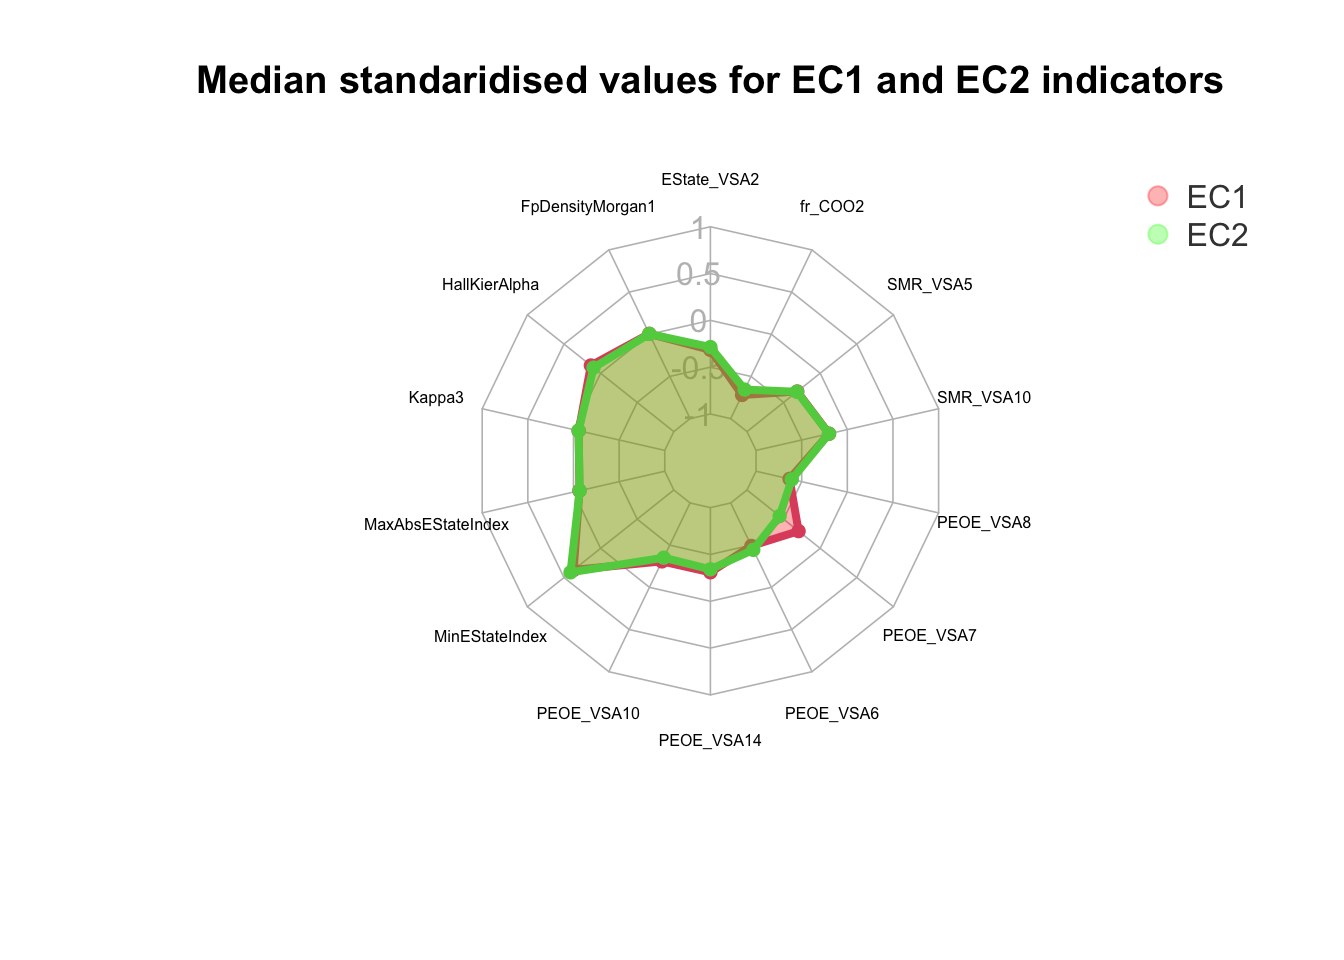
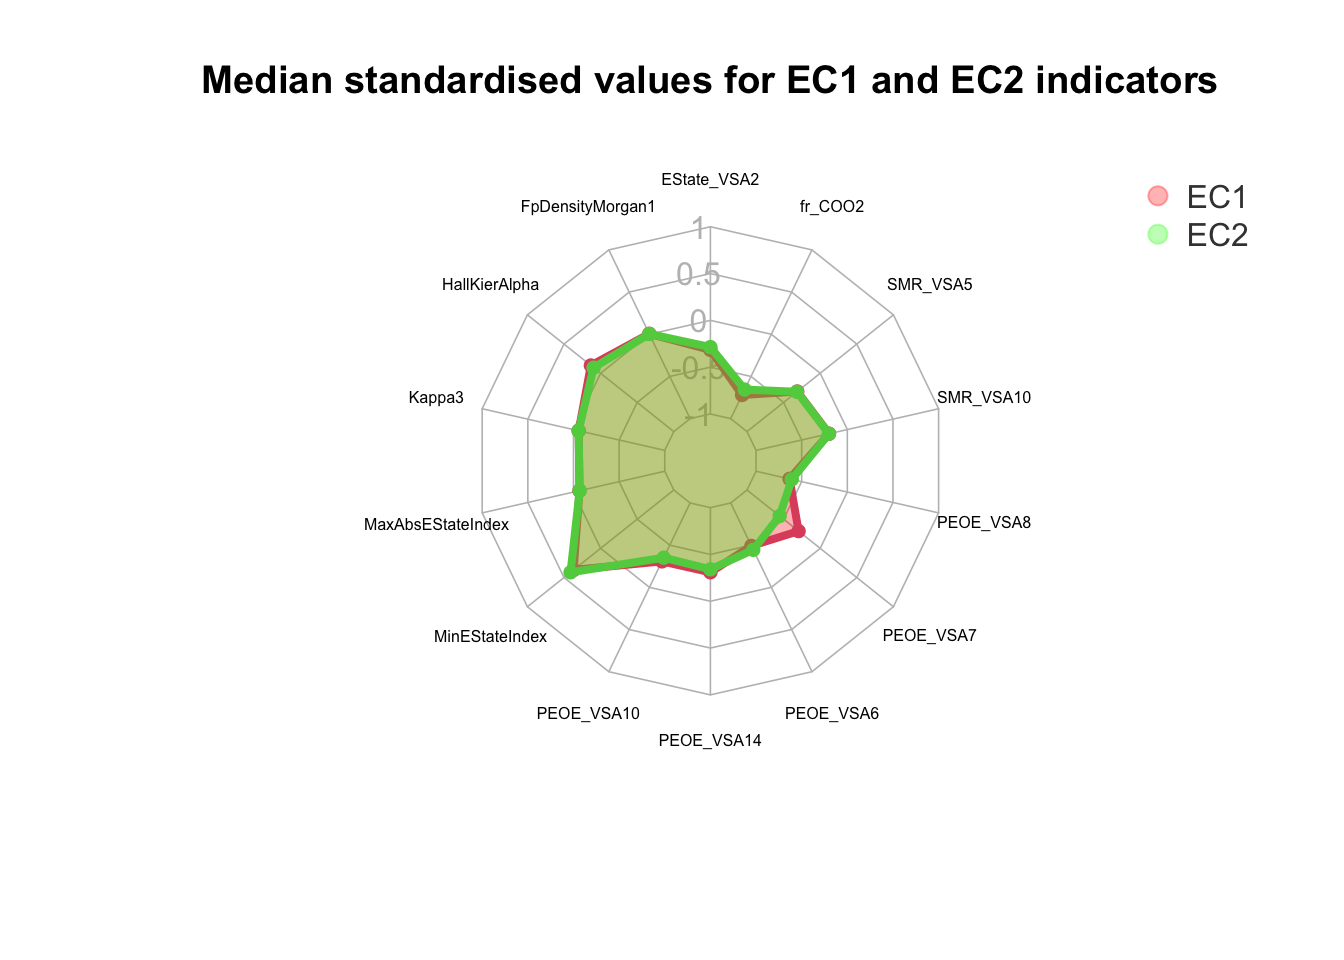
Spell check done for cenzyme classifier analysis

Changed region(s): [[0.125, 0.0625, 0.9062, 0.0938]]

diff --git a/docs/_site/plots/visualisations/Enzyme_classifier/index.html b/docs/_site/plots/visualisations/Enzyme_classifier/index.html
@@ -342,8 +342,8 @@ EC1 represents the class of enzymes known as oxidoreductases. These enzymes cata
 <div class="cell">
 <div class="cell-output-display">
 
-<div id="htmlwidget-307443e70f91be0c7ff1" style="width:500px;height:500px;" class="datatables html-widget "></div>
-<script type="application/json" data-for="htmlwidget-307443e70f91be0c7ff1">{"x":{"filter":"none","vertical":false,"data":[["1","2","3","4","5","6"],[11.93829424,0,6.606881965,0,12.84164325,0],[1.181818182,1.346153846,1.085714286,1.162790698,1.444444444,1.083333333],[-0.24,-0.09,-0.78,-1.3,-1.1,-0.98],[8.17,3.201490511,15.03388953,6.724301321,3.931271989,3.015404674],[11.92250394,10.93233796,11.2380483,11.17117021,9.855740741,10.08746929],[0.171585412,-4.830449539,-5.066255336,-5.276575465,-1.676296296,-1.669305556],[0,24.41586555,0,42.72776471,6.041840829,0],[91.53649165,7.822697123,15.64539425,21.33513764,11.93861058,5.969305288],[0,0,0,0,6.9237372,0],[0,0,53.37823529,0,19.38639965,0],[0,0,0,6.420821623,0,0],[17.74406608,7.822697123,15.64539425,15.64539425,11.93861058,11.75255023],[0,30.70589228,73.14361574,62.10730426,18.88348408,24.41586555],[0,0,0,0,2,1],[1,0,1,1,1,1],[1,1,1,1,0,0]],"container":"<table class=\"display\">\n  <thead>\n    <tr>\n      <th> <\/th>\n      <th>EState_VSA2<\/th>\n      <th>FpDensityMorgan1<\/th>\n      <th>HallKierAlpha<\/th>\n      <th>Kappa3<\/th>\n      <th>MaxAbsEStateIndex<\/th>\n      <th>MinEStateIndex<\/th>\n      <th>PEOE_VSA10<\/th>\n      <th>PEOE_VSA14<\/th>\n      <th>PEOE_VSA6<\/th>\n      <th>PEOE_VSA7<\/th>\n      <th>PEOE_VSA8<\/th>\n      <th>SMR_VSA10<\/th>\n      <th>SMR_VSA5<\/th>\n      <th>fr_COO2<\/th>\n      <th>EC1<\/th>\n      <th>EC2<\/th>\n    <\/tr>\n  <\/thead>\n<\/table>","options":{"pageLength":6,"columnDefs":[{"className":"dt-right","targets":[1,2,3,4,5,6,7,8,9,10,11,12,13,14,15,16]},{"orderable":false,"targets":0}],"order":[],"autoWidth":false,"orderClasses":false,"lengthMenu":[6,10,25,50,100]}},"evals":[],"jsHooks":[]}</script>
+<div id="htmlwidget-c1d0836b0714e3f548a5" style="width:500px;height:500px;" class="datatables html-widget "></div>
+<script type="application/json" data-for="htmlwidget-c1d0836b0714e3f548a5">{"x":{"filter":"none","vertical":false,"data":[["1","2","3","4","5","6"],[11.93829424,0,6.606881965,0,12.84164325,0],[1.181818182,1.346153846,1.085714286,1.162790698,1.444444444,1.083333333],[-0.24,-0.09,-0.78,-1.3,-1.1,-0.98],[8.17,3.201490511,15.03388953,6.724301321,3.931271989,3.015404674],[11.92250394,10.93233796,11.2380483,11.17117021,9.855740741,10.08746929],[0.171585412,-4.830449539,-5.066255336,-5.276575465,-1.676296296,-1.669305556],[0,24.41586555,0,42.72776471,6.041840829,0],[91.53649165,7.822697123,15.64539425,21.33513764,11.93861058,5.969305288],[0,0,0,0,6.9237372,0],[0,0,53.37823529,0,19.38639965,0],[0,0,0,6.420821623,0,0],[17.74406608,7.822697123,15.64539425,15.64539425,11.93861058,11.75255023],[0,30.70589228,73.14361574,62.10730426,18.88348408,24.41586555],[0,0,0,0,2,1],[1,0,1,1,1,1],[1,1,1,1,0,0]],"container":"<table class=\"display\">\n  <thead>\n    <tr>\n      <th> <\/th>\n      <th>EState_VSA2<\/th>\n      <th>FpDensityMorgan1<\/th>\n      <th>HallKierAlpha<\/th>\n      <th>Kappa3<\/th>\n      <th>MaxAbsEStateIndex<\/th>\n      <th>MinEStateIndex<\/th>\n      <th>PEOE_VSA10<\/th>\n      <th>PEOE_VSA14<\/th>\n      <th>PEOE_VSA6<\/th>\n      <th>PEOE_VSA7<\/th>\n      <th>PEOE_VSA8<\/th>\n      <th>SMR_VSA10<\/th>\n      <th>SMR_VSA5<\/th>\n      <th>fr_COO2<\/th>\n      <th>EC1<\/th>\n      <th>EC2<\/th>\n    <\/tr>\n  <\/thead>\n<\/table>","options":{"pageLength":6,"columnDefs":[{"className":"dt-right","targets":[1,2,3,4,5,6,7,8,9,10,11,12,13,14,15,16]},{"orderable":false,"targets":0}],"order":[],"autoWidth":false,"orderClasses":false,"lengthMenu":[6,10,25,50,100]}},"evals":[],"jsHooks":[]}</script>
 </div>
 </div>
 <p>Let us now create the correlation plot of the revised dataset.</p>
@@ -455,7 +455,7 @@ Note
 <div id="fig-radplot" class="quarto-figure quarto-figure-center anchored">
 <figure class="figure">
 <p><img src="index_files/figure-html/fig-radplot-1.png" class="img-fluid figure-img" width="672"></p>
-<figcaption class="figure-caption">Figure&nbsp;7: Median standaridised values for EC1 and EC2 indicators</figcaption>
+<figcaption class="figure-caption">Figure&nbsp;7: Median standardised values for EC1 and EC2 indicators</figcaption>
 </figure>
 </div>
 </div>

diff --git a/plots/visualisations/Enzyme_classifier/index.html b/plots/visualisations/Enzyme_classifier/index.html
@@ -342,8 +342,8 @@ EC1 represents the class of enzymes known as oxidoreductases. These enzymes cata
 <div class="cell">
 <div class="cell-output-display">
 
-<div id="htmlwidget-307443e70f91be0c7ff1" style="width:500px;height:500px;" class="datatables html-widget "></div>
-<script type="application/json" data-for="htmlwidget-307443e70f91be0c7ff1">{"x":{"filter":"none","vertical":false,"data":[["1","2","3","4","5","6"],[11.93829424,0,6.606881965,0,12.84164325,0],[1.181818182,1.346153846,1.085714286,1.162790698,1.444444444,1.083333333],[-0.24,-0.09,-0.78,-1.3,-1.1,-0.98],[8.17,3.201490511,15.03388953,6.724301321,3.931271989,3.015404674],[11.92250394,10.93233796,11.2380483,11.17117021,9.855740741,10.08746929],[0.171585412,-4.830449539,-5.066255336,-5.276575465,-1.676296296,-1.669305556],[0,24.41586555,0,42.72776471,6.041840829,0],[91.53649165,7.822697123,15.64539425,21.33513764,11.93861058,5.969305288],[0,0,0,0,6.9237372,0],[0,0,53.37823529,0,19.38639965,0],[0,0,0,6.420821623,0,0],[17.74406608,7.822697123,15.64539425,15.64539425,11.93861058,11.75255023],[0,30.70589228,73.14361574,62.10730426,18.88348408,24.41586555],[0,0,0,0,2,1],[1,0,1,1,1,1],[1,1,1,1,0,0]],"container":"<table class=\"display\">\n  <thead>\n    <tr>\n      <th> <\/th>\n      <th>EState_VSA2<\/th>\n      <th>FpDensityMorgan1<\/th>\n      <th>HallKierAlpha<\/th>\n      <th>Kappa3<\/th>\n      <th>MaxAbsEStateIndex<\/th>\n      <th>MinEStateIndex<\/th>\n      <th>PEOE_VSA10<\/th>\n      <th>PEOE_VSA14<\/th>\n      <th>PEOE_VSA6<\/th>\n      <th>PEOE_VSA7<\/th>\n      <th>PEOE_VSA8<\/th>\n      <th>SMR_VSA10<\/th>\n      <th>SMR_VSA5<\/th>\n      <th>fr_COO2<\/th>\n      <th>EC1<\/th>\n      <th>EC2<\/th>\n    <\/tr>\n  <\/thead>\n<\/table>","options":{"pageLength":6,"columnDefs":[{"className":"dt-right","targets":[1,2,3,4,5,6,7,8,9,10,11,12,13,14,15,16]},{"orderable":false,"targets":0}],"order":[],"autoWidth":false,"orderClasses":false,"lengthMenu":[6,10,25,50,100]}},"evals":[],"jsHooks":[]}</script>
+<div id="htmlwidget-c1d0836b0714e3f548a5" style="width:500px;height:500px;" class="datatables html-widget "></div>
+<script type="application/json" data-for="htmlwidget-c1d0836b0714e3f548a5">{"x":{"filter":"none","vertical":false,"data":[["1","2","3","4","5","6"],[11.93829424,0,6.606881965,0,12.84164325,0],[1.181818182,1.346153846,1.085714286,1.162790698,1.444444444,1.083333333],[-0.24,-0.09,-0.78,-1.3,-1.1,-0.98],[8.17,3.201490511,15.03388953,6.724301321,3.931271989,3.015404674],[11.92250394,10.93233796,11.2380483,11.17117021,9.855740741,10.08746929],[0.171585412,-4.830449539,-5.066255336,-5.276575465,-1.676296296,-1.669305556],[0,24.41586555,0,42.72776471,6.041840829,0],[91.53649165,7.822697123,15.64539425,21.33513764,11.93861058,5.969305288],[0,0,0,0,6.9237372,0],[0,0,53.37823529,0,19.38639965,0],[0,0,0,6.420821623,0,0],[17.74406608,7.822697123,15.64539425,15.64539425,11.93861058,11.75255023],[0,30.70589228,73.14361574,62.10730426,18.88348408,24.41586555],[0,0,0,0,2,1],[1,0,1,1,1,1],[1,1,1,1,0,0]],"container":"<table class=\"display\">\n  <thead>\n    <tr>\n      <th> <\/th>\n      <th>EState_VSA2<\/th>\n      <th>FpDensityMorgan1<\/th>\n      <th>HallKierAlpha<\/th>\n      <th>Kappa3<\/th>\n      <th>MaxAbsEStateIndex<\/th>\n      <th>MinEStateIndex<\/th>\n      <th>PEOE_VSA10<\/th>\n      <th>PEOE_VSA14<\/th>\n      <th>PEOE_VSA6<\/th>\n      <th>PEOE_VSA7<\/th>\n      <th>PEOE_VSA8<\/th>\n      <th>SMR_VSA10<\/th>\n      <th>SMR_VSA5<\/th>\n      <th>fr_COO2<\/th>\n      <th>EC1<\/th>\n      <th>EC2<\/th>\n    <\/tr>\n  <\/thead>\n<\/table>","options":{"pageLength":6,"columnDefs":[{"className":"dt-right","targets":[1,2,3,4,5,6,7,8,9,10,11,12,13,14,15,16]},{"orderable":false,"targets":0}],"order":[],"autoWidth":false,"orderClasses":false,"lengthMenu":[6,10,25,50,100]}},"evals":[],"jsHooks":[]}</script>
 </div>
 </div>
 <p>Let us now create the correlation plot of the revised dataset.</p>
@@ -455,7 +455,7 @@ Note
 <div id="fig-radplot" class="quarto-figure quarto-figure-center anchored">
 <figure class="figure">
 <p><img src="index_files/figure-html/fig-radplot-1.png" class="img-fluid figure-img" width="672"></p>
-<figcaption class="figure-caption">Figure&nbsp;7: Median standaridised values for EC1 and EC2 indicators</figcaption>
+<figcaption class="figure-caption">Figure&nbsp;7: Median standardised values for EC1 and EC2 indicators</figcaption>
 </figure>
 </div>
 </div>

diff --git a/docs/_site/plots/index.html b/docs/_site/plots/index.html
@@ -164,7 +164,7 @@ ul.task-list li input[type="checkbox"] {
 
 <div class="quarto-listing quarto-listing-container-default" id="listing-listing">
 <div class="list quarto-listing-default">
-<div class="quarto-post image-right" data-index="0" data-categories="data cleaning,exploratory data analysis,visualisation,radar plot" data-listing-date-sort="1707503400000" data-listing-file-modified-sort="1707579782177" data-listing-date-modified-sort="NaN" data-listing-reading-time-sort="15">
+<div class="quarto-post image-right" data-index="0" data-categories="data cleaning,exploratory data analysis,visualisation,radar plot" data-listing-date-sort="1707503400000" data-listing-file-modified-sort="1707848572934" data-listing-date-modified-sort="NaN" data-listing-reading-time-sort="15">
 <div class="thumbnail">
 <p><a href="../plots/visualisations/Enzyme_classifier/index.html"> <img src="../plots/visualisations/Enzyme_classifier/radplot.png" class="thumbnail-image"> </a></p>
 </div>

diff --git a/plots/index.html b/plots/index.html
@@ -164,7 +164,7 @@ ul.task-list li input[type="checkbox"] {
 
 <div class="quarto-listing quarto-listing-container-default" id="listing-listing">
 <div class="list quarto-listing-default">
-<div class="quarto-post image-right" data-index="0" data-categories="data cleaning,exploratory data analysis,visualisation,radar plot" data-listing-date-sort="1707503400000" data-listing-file-modified-sort="1707579782177" data-listing-date-modified-sort="NaN" data-listing-reading-time-sort="15">
+<div class="quarto-post image-right" data-index="0" data-categories="data cleaning,exploratory data analysis,visualisation,radar plot" data-listing-date-sort="1707503400000" data-listing-file-modified-sort="1707848572934" data-listing-date-modified-sort="NaN" data-listing-reading-time-sort="15">
 <div class="thumbnail">
 <p><a href="../plots/visualisations/Enzyme_classifier/index.html"> <img src="../plots/visualisations/Enzyme_classifier/radplot.png" class="thumbnail-image"> </a></p>
 </div>
